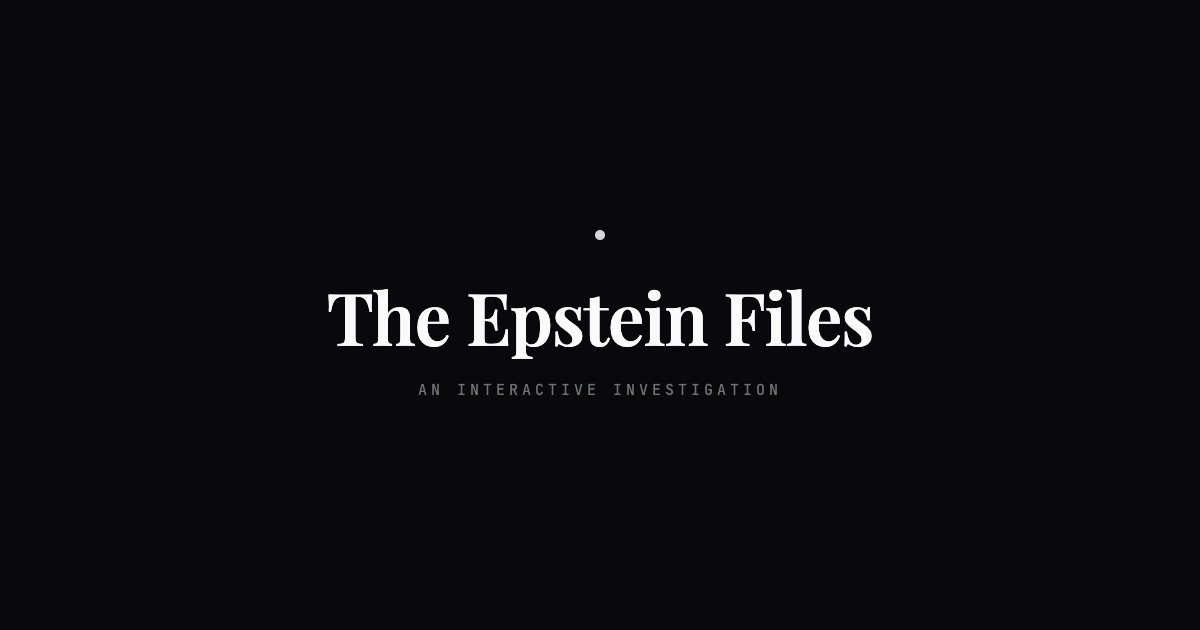
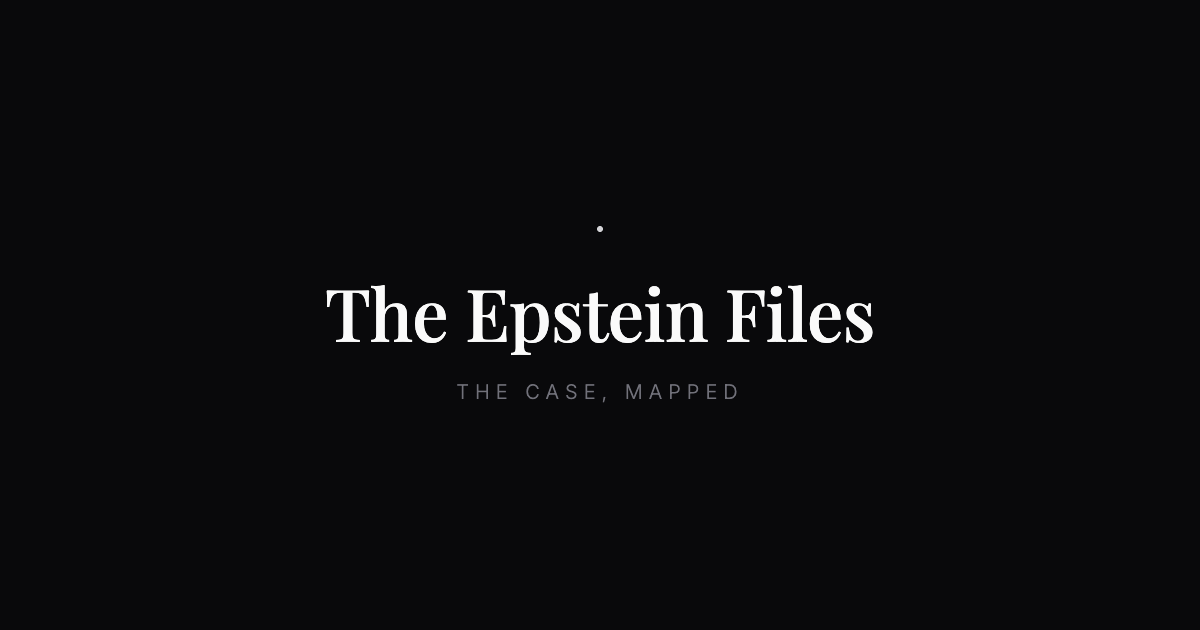
Rename subtitle to "The Case, Mapped", fix mobile tab bar and particle pattern
- Replace "An Interactive Investigation" with "The Case, Mapped" across all
  meta tags, OG/Twitter cards, structured data, README, CLAUDE.md, robots.txt
- Regenerate OG image with updated subtitle
- Fix mobile tab bar hidden behind Safari toolbar (h-screen → h-dvh)
- Revert particle styles to Math.random() at module scope (golden ratio hash
  produced visible diagonal line patterns)

diff --git a/index.html b/index.html
@@ -5,9 +5,9 @@
     <meta name="viewport" content="width=device-width, initial-scale=1.0, viewport-fit=cover" />
 
     <!-- Primary Meta -->
-    <title>The Epstein Files — An Interactive Investigation</title>
-    <meta name="description" content="A comprehensive, interactive investigation into the Jeffrey Epstein case. Explore the network of connections, timeline of events, court documents, and key locations — all sourced from court filings, DOJ releases, and investigative journalism." />
-    <meta name="keywords" content="Epstein files, Jeffrey Epstein, Ghislaine Maxwell, sex trafficking, investigation, network graph, timeline, court documents, DOJ releases, interactive documentary" />
+    <title>The Epstein Files — The Case, Mapped</title>
+    <meta name="description" content="The Jeffrey Epstein case — people, connections, timeline, and documents — mapped and sourced from court filings, DOJ releases, and investigative journalism." />
+    <meta name="keywords" content="Epstein files, Jeffrey Epstein, Ghislaine Maxwell, sex trafficking, investigation, network graph, timeline, court documents, DOJ releases" />
     <meta name="author" content="Ronit Chidara" />
     <meta name="robots" content="index, follow" />
     <link rel="icon" type="image/svg+xml" href="/favicon.svg" />
@@ -16,8 +16,8 @@
     <!-- Open Graph / Facebook -->
     <meta property="og:type" content="website" />
     <meta property="og:url" content="https://ignorance-isnt-bliss.pages.dev/" />
-    <meta property="og:title" content="The Epstein Files — An Interactive Investigation" />
-    <meta property="og:description" content="Explore the full scope of the Jeffrey Epstein case — people, connections, timeline, and documents — in an interactive investigation. Every claim sourced. Every connection documented." />
+    <meta property="og:title" content="The Epstein Files — The Case, Mapped" />
+    <meta property="og:description" content="The Jeffrey Epstein case — people, connections, timeline, and documents — mapped and documented. Every claim sourced." />
     <meta property="og:site_name" content="The Epstein Files" />
     <meta property="og:image" content="https://ignorance-isnt-bliss.pages.dev/images/og-image.png" />
     <meta property="og:image:width" content="1200" />
@@ -26,8 +26,8 @@
 
     <!-- Twitter / X -->
     <meta name="twitter:card" content="summary_large_image" />
-    <meta name="twitter:title" content="The Epstein Files — An Interactive Investigation" />
-    <meta name="twitter:description" content="Explore the full scope of the Jeffrey Epstein case — people, connections, timeline, and documents — in an interactive investigation." />
+    <meta name="twitter:title" content="The Epstein Files — The Case, Mapped" />
+    <meta name="twitter:description" content="The Jeffrey Epstein case — people, connections, timeline, and documents — mapped and documented. Every claim sourced." />
     <meta name="twitter:image" content="https://ignorance-isnt-bliss.pages.dev/images/og-image.png" />
 
     <!-- Structured Data: WebApplication -->
@@ -36,7 +36,7 @@
       "@context": "https://schema.org",
       "@type": "WebApplication",
       "name": "The Epstein Files",
-      "description": "A comprehensive, interactive investigation into the Jeffrey Epstein case. Explore the network of over 70 entities — people, organizations, documents, and locations — connected through 150+ verified and reported relationships, spanning a timeline from 1976 to 2026.",
+      "description": "The Jeffrey Epstein case, mapped. Over 70 entities — people, organizations, documents, and locations — connected through 150+ verified and reported relationships, spanning a timeline from 1976 to 2026.",
       "url": "https://ignorance-isnt-bliss.pages.dev/",
       "applicationCategory": "EducationalApplication",
       "operatingSystem": "Web",
@@ -49,7 +49,7 @@
         "name": "Jeffrey Epstein case",
         "description": "The sex trafficking case involving financier Jeffrey Epstein, his associates, institutional failures, and ongoing investigations."
       },
-      "keywords": ["Epstein", "investigation", "sex trafficking", "network graph", "interactive documentary", "court documents", "DOJ releases"]
+      "keywords": ["Epstein", "investigation", "sex trafficking", "network graph", "court documents", "DOJ releases"]
     }
     </script>
 
@@ -82,8 +82,8 @@
     {
       "@context": "https://schema.org",
       "@type": "Article",
-      "headline": "The Epstein Files: An Interactive Investigation",
-      "description": "An interactive documentary investigation exploring the Jeffrey Epstein case — the people, institutions, timeline, and documents that define one of the most far-reaching abuse and trafficking networks ever documented.",
+      "headline": "The Epstein Files: The Case, Mapped",
+      "description": "The Jeffrey Epstein case — the people, institutions, timeline, and documents that define one of the most far-reaching abuse and trafficking networks ever documented.",
       "author": {
         "@type": "Person",
         "name": "Ronit Chidara"
@@ -118,8 +118,8 @@
     <!-- Noscript fallback: provides crawlable content for search engines and LLMs that don't execute JS -->
     <noscript>
       <div style="max-width: 800px; margin: 0 auto; padding: 40px 20px; font-family: Inter, sans-serif; color: #fafafa; background: #09090b;">
-        <h1>The Epstein Files — An Interactive Investigation</h1>
-        <p>A comprehensive, interactive investigation into the Jeffrey Epstein case. This application presents the full scope of the case through an interactive network graph, chronological timeline, and detailed entity profiles — all sourced from court documents, DOJ releases, and investigative journalism.</p>
+        <h1>The Epstein Files — The Case, Mapped</h1>
+        <p>The Jeffrey Epstein case — people, connections, timeline, and documents — mapped and sourced from court filings, DOJ releases, and investigative journalism.</p>
 
         <h2>Key People</h2>
         <ul>
@@ -165,7 +165,7 @@
           <li><strong>Metropolitan Correctional Center</strong> — Federal detention facility where Epstein died.</li>
         </ul>
 
-        <p><em>This interactive investigation requires JavaScript to display the network graph, timeline, and entity detail panels. Please enable JavaScript for the full experience.</em></p>
+        <p><em>This page requires JavaScript to display the network graph, timeline, and entity detail panels. Please enable JavaScript for the full experience.</em></p>
       </div>
     </noscript>
   </body>

diff --git a/src/components/intro/CinematicIntro.tsx b/src/components/intro/CinematicIntro.tsx
@@ -6,21 +6,18 @@ import { useInvestigationStore } from '@/store/investigation'
 
 gsap.registerPlugin(ScrollTrigger)
 
-// Pre-generated particle styles — avoids Math.random() during render
-const PARTICLE_STYLES = Array.from({ length: 60 }, (_, i) => {
-  // Deterministic pseudo-random using index (golden ratio hash)
-  const hash = (n: number) => ((n * 0.618033988749895) % 1)
-  return {
-    width: hash(i * 4 + 0) * 3 + 1 + 'px',
-    height: hash(i * 4 + 1) * 3 + 1 + 'px',
-    left: hash(i * 4 + 2) * 100 + '%',
-    top: hash(i * 4 + 3) * 100 + '%',
-    backgroundColor: '#a1a1aa' as const,
-    opacity: hash(i * 7) * 0.2 + 0.03,
-    animation: `pulse-glow ${4 + hash(i * 11) * 5}s ease-in-out infinite`,
-    animationDelay: hash(i * 13) * 4 + 's',
-  }
-})
+// Pre-generated particle styles at module scope — Math.random() is fine here
+// because this runs once at import time, not during component render.
+const PARTICLE_STYLES = Array.from({ length: 60 }, () => ({
+  width: Math.random() * 3 + 1 + 'px',
+  height: Math.random() * 3 + 1 + 'px',
+  left: Math.random() * 100 + '%',
+  top: Math.random() * 100 + '%',
+  backgroundColor: '#a1a1aa' as const,
+  opacity: Math.random() * 0.2 + 0.03,
+  animation: `pulse-glow ${4 + Math.random() * 5}s ease-in-out infinite`,
+  animationDelay: Math.random() * 4 + 's',
+}))
 
 const introSections = [
   {

diff --git a/src/components/board/InvestigationBoard.tsx b/src/components/board/InvestigationBoard.tsx
@@ -19,7 +19,7 @@ export function InvestigationBoard() {
   return (
     <div
       id="main-content"
-      className="h-screen flex flex-col bg-[var(--color-surface)] overflow-hidden"
+      className="h-dvh flex flex-col bg-[var(--color-surface)] overflow-hidden"
       style={{ paddingTop: 'var(--safe-top)', paddingLeft: 'var(--safe-left)', paddingRight: 'var(--safe-right)' }}
       role="main"
     >

diff --git a/README.md b/README.md
@@ -1,6 +1,6 @@
 # The Epstein Files
 
-An interactive investigation into the Jeffrey Epstein case.
+The case, mapped.
 
 **Live**: [ignorance-isnt-bliss.pages.dev](https://ignorance-isnt-bliss.pages.dev/)
 
@@ -18,7 +18,7 @@ This is a public service tool. Nothing more.
 
 ## What It Does
 
-An interactive documentary investigation presenting the full scope of the Epstein case:
+The full scope of the Epstein case, mapped:
 
 - **Network graph** — Visualises connections between people, organisations, documents, and locations. Every connection is sourced and marked as court-verified or reported.
 - **Timeline** — Chronological events from 1976 to 2026, from Epstein's early career through the final DOJ document releases.

diff --git a/CLAUDE.md b/CLAUDE.md
@@ -1,7 +1,7 @@
 # The Epstein Files — Project Identity
 
 ## What This Is
-An interactive documentary investigation into the Jeffrey Epstein case. A web app that presents the full scope of the case — people, connections, timeline, documents, locations — in a way that's comprehensive yet navigable. Every data point is sourced and rated for reliability.
+The Jeffrey Epstein case, mapped. People, connections, timeline, documents, locations — comprehensive yet navigable. Every data point is sourced and rated for reliability.
 
 ## Content Principles (HIGHEST PRIORITY)
 - **Factual above all**: Every claim must be traceable to court documents, confirmed reporting, or public records
